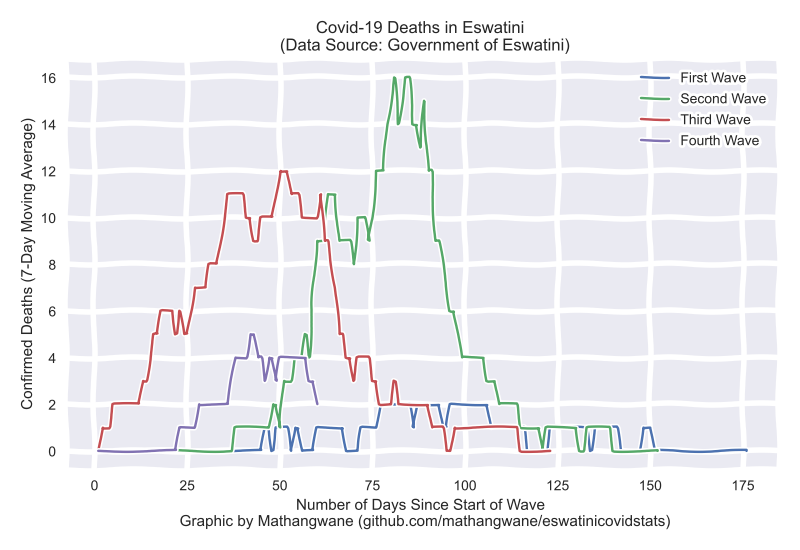
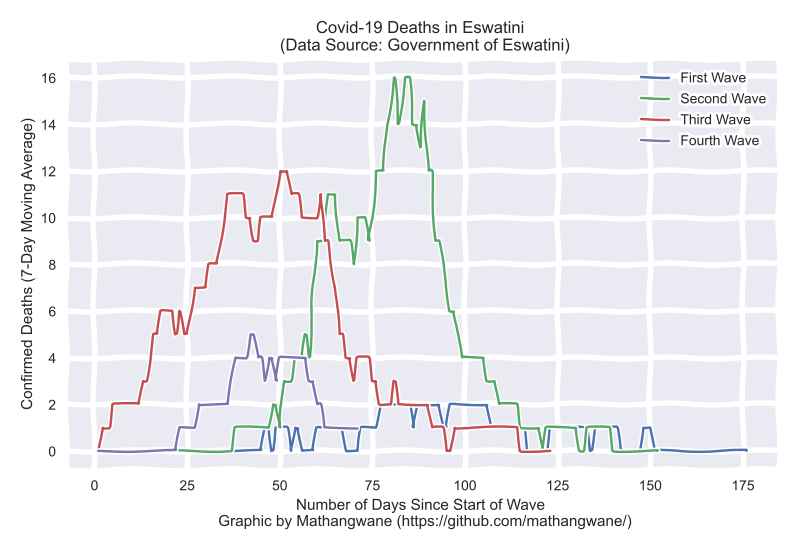
03 February 2022

Changed region(s): [[0.2188, 0.9273, 0.8438, 0.9582], [0.4062, 0.7727, 0.4375, 0.8036], [0.375, 0.7418, 0.4062, 0.7727]]

diff --git a/eswatini_covid19_deaths.py b/eswatini_covid19_deaths.py
@@ -28,7 +28,7 @@ plt.plot(Infection_Day3, Infection_Number3, marker=None, linestyle='solid')
 plt.plot(Infection_Day4, Infection_Number4, marker=None, linestyle='solid')
 
 plt.title('Covid-19 Deaths in Eswatini \n (Data Source: Government of Eswatini)')
-plt.xlabel('Number of Days Since Start of Wave \n Graphic by Mathangwane (github.com/mathangwane/eswatinicovidstats)')
+plt.xlabel('Number of Days Since Start of Wave \n Graphic by Mathangwane (https://github.com/mathangwane/)')
 plt.ylabel('Confirmed Deaths (7-Day Moving Average)')
 
 plt.tight_layout()

diff --git a/eswatini_covid19_infections.py b/eswatini_covid19_infections.py
@@ -27,7 +27,7 @@ plt.plot(Infection_Day3, Infection_Number3, marker=None, linestyle='solid')
 plt.plot(Infection_Day4, Infection_Number4, marker=None, linestyle='solid')
 
 plt.title('Covid Waves in Eswatini \n (Data Source: Government of Eswatini)')
-plt.xlabel('Number of Days Since Start of Wave \n Graphic by Mathangwane (github.com/mathangwane/eswatinicovidstats)')
+plt.xlabel('Number of Days Since Start of Wave \n Graphic by Mathangwane (https://github.com/mathangwane/)')
 plt.ylabel('Confirmed Infections (7-Day Moving Average)')
 
 plt.tight_layout()
